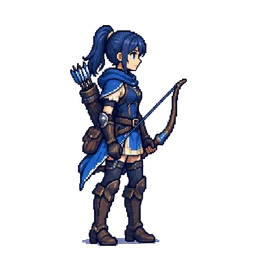
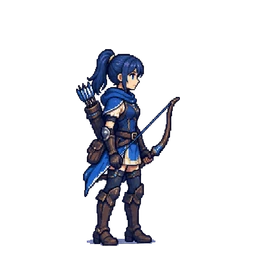
Sprites en las fichas de tienda y combate
- UnitArt muestra el sprite de la unidad (o su abreviatura si no tiene) en
  la tienda, el combate y la ficha que se arrastra; el rival va volteado.
- Recuadro de raza semitransparente detrás del sprite.
- Fichas más grandes: combate hasta 1280 px de ancho y fichas al 90 % del
  hueco; tienda hasta 800 px.
- Humanos a la altura del resto de humanoides; cría de lagarto, camaleón y
  escupidor agrandados (opciones --height, --min-height y --grow del script).
- Prueba: cada unidad comprable tiene su sprite.

Changed region(s): [[0.2812, 0.0938, 0.75, 0.9688]]

diff --git a/scripts/sprites.ts b/scripts/sprites.ts
@@ -1,12 +1,18 @@
 // Corta una hoja de sprites con fondo blanco en un archivo por personaje.
 //
-//   node scripts/sprites.ts <hoja.png> <carpeta-salida> <prefijo> [nombre...] [--height=N]
+//   node scripts/sprites.ts <hoja.png> <carpeta-salida> <prefijo> [nombre...] [opciones]
 //
 // Si se dan nombres (los id de las unidades, de izquierda a derecha), cada
 // archivo se llama <nombre>.webp; si no, <prefijo>_01.webp, <prefijo>_02.webp...
 //
 // Con --height=N el personaje más alto mide N píxeles en el lienzo en vez de
 // llenarlo. Sirve para que un sprite suelto encaje con los de su hoja.
+//
+// Con --min-height=N los personajes que medirían menos de N píxeles se agrandan
+// hasta N (por ejemplo una cría que, a escala real, no se distinguiría).
+//
+// Con --grow=nombre:factor ese personaje se escala por el factor (1.2 = un 20 %
+// más grande). Se puede repetir para varios.
 //
 // 1. Quita el fondo: relleno desde los bordes sobre los píxeles casi blancos
 //    (así no se borran los blancos de dentro, como dientes o calaveras) y
@@ -52,12 +58,27 @@ interface Blob {
 }
 
 const args = process.argv.slice(2)
-const heightArg = args.find((a) => a.startsWith('--height='))
-const targetHeight = heightArg ? Number(heightArg.slice('--height='.length)) : undefined
+const option = (name: string): number | undefined => {
+  const arg = args.find((a) => a.startsWith(`--${name}=`))
+  return arg === undefined ? undefined : Number(arg.slice(name.length + 3))
+}
+const targetHeight = option('height')
+const minHeight = option('min-height')
+const grow = new Map(
+  args
+    .filter((a) => a.startsWith('--grow='))
+    .map((a) => {
+      const [name = '', factor = ''] = a.slice('--grow='.length).split(':')
+      return [name, Number(factor)] as const
+    }),
+)
 const [input, outDir, prefix, ...names] = args.filter((a) => !a.startsWith('--'))
-if (!input || !outDir || !prefix || (targetHeight !== undefined && !(targetHeight > 0))) {
+const badOption =
+  [targetHeight, minHeight].some((n) => n !== undefined && !(n > 0)) ||
+  [...grow].some(([name, factor]) => !names.includes(name) || !(factor > 0))
+if (!input || !outDir || !prefix || badOption) {
   console.error(
-    'Uso: node scripts/sprites.ts <hoja.png> <carpeta-salida> <prefijo> [nombre...] [--height=N]',
+    'Uso: node scripts/sprites.ts <hoja.png> <carpeta-salida> <prefijo> [nombre...] [--height=N] [--min-height=N] [--grow=nombre:factor]',
   )
   process.exit(1)
 }
@@ -268,8 +289,12 @@ for (const [i, c] of characters.entries()) {
     const y = Math.floor(p / W) - c.box.y0
     rgba.copy(own, (y * w + x) * 4, p * 4, p * 4 + 4)
   }
-  const sw = Math.max(1, Math.round(w * scale))
-  const sh = Math.max(1, Math.round(h * scale))
+  // Los que quedarían por debajo de --min-height se agrandan hasta ella, y los
+  // de --grow por su factor; nunca más allá del lienzo.
+  const base = minHeight === undefined || h * scale >= minHeight ? scale : minHeight / h
+  const ownScale = Math.min(base * (grow.get(names[i] ?? '') ?? 1), inner / w, inner / h)
+  const sw = Math.max(1, Math.round(w * ownScale))
+  const sh = Math.max(1, Math.round(h * ownScale))
   const scaled = await sharp(own, { raw: { width: w, height: h, channels: 4 } })
     .resize(sw, sh, { kernel: 'lanczos3' })
     .png()

diff --git a/src/ui/arena.css b/src/ui/arena.css
@@ -2,7 +2,7 @@
 
 .pantalla-combate {
   width: 100%;
-  max-width: 960px;
+  max-width: 1280px;
   margin: 0 auto;
   padding-block: 16px 32px;
   padding-inline: max(16px, env(safe-area-inset-left, 0px)) max(16px, env(safe-area-inset-right, 0px));
@@ -133,21 +133,50 @@
 }
 
 .r-orc {
-  background: var(--orc);
+  --race: var(--orc);
 }
 .r-human {
-  background: var(--human);
+  --race: var(--human);
 }
 .r-lizard {
-  background: var(--lizard);
+  --race: var(--lizard);
 }
 .r-undead {
-  background: var(--undead);
+  --race: var(--undead);
+}
+.body {
+  background: var(--race);
 }
 
 .mono {
   font-size: clamp(12px, 2.6vw, 24px);
   text-shadow: 0 2px 0 rgb(0 0 0 / 30%);
+}
+
+/* Con sprite, el color de la raza queda de fondo, semitransparente. */
+.body.con-sprite {
+  background: color-mix(in srgb, var(--race) 42%, transparent);
+  border-color: color-mix(in srgb, var(--race) 70%, rgb(255 255 255 / 30%));
+  box-shadow: 0 5px 0 rgb(0 0 0 / 18%);
+}
+
+/* Más grande que la ficha: los humanoides llegan justo al borde de arriba y
+   las unidades grandes (liche, ogro, hidra) asoman por encima. */
+.sprite {
+  position: absolute;
+  left: 50%;
+  bottom: 4%;
+  width: 120%;
+  height: 120%;
+  object-fit: contain;
+  object-position: bottom;
+  transform: translateX(-50%);
+  pointer-events: none;
+  filter: drop-shadow(0 2px 1px rgb(0 0 0 / 45%));
+}
+
+.sprite.volteado {
+  transform: translateX(-50%) scaleX(-1);
 }
 
 .nivel {

diff --git a/src/ui/ShopScreen.tsx b/src/ui/ShopScreen.tsx
@@ -22,6 +22,8 @@ import {
   type ShopState,
 } from '../engine/shop'
 import { RACE_NAMES, UNITS, abilityText } from '../engine/units'
+import { UnitArt } from './UnitArt'
+import { artClass } from './sprites'
 import './arena.css'
 import './shop.css'
 
@@ -57,10 +59,6 @@ interface Ghost {
 const DRAG_THRESHOLD = 6
 /** Tiempo máximo entre dos pulsaciones para contar como doble clic. */
 const DOUBLE_TAP_MS = 350
-
-function short(name: string): string {
-  return name.slice(0, 2)
-}
 
 function samePick(a: Pick | null, b: Pick | null): boolean {
   return a !== null && b !== null && a.kind === b.kind && a.id === b.id
@@ -160,8 +158,8 @@ function ShopCard({ unit, unitId, owned, frozen, selected, dragging, ...handlers
       data-unit-id={unitId}
       {...handlers}
     >
-      <div className={`body r-${def.race}`}>
-        <span className="mono">{short(def.name)}</span>
+      <div className={`body r-${def.race}${artClass(def.id)}`}>
+        <UnitArt id={def.id} name={def.name} />
         <span className={`nivel nivel-${level}`}>Nv {level}</span>
         <span className="st atk">{stats.atk}</span>
         <span className="st hp">{stats.hp}</span>

diff --git a/src/ui/UnitCard.tsx b/src/ui/UnitCard.tsx
@@ -1,4 +1,6 @@
 import type { UnitSnapshot } from '../engine/combat'
+import { UnitArt } from './UnitArt'
+import { artClass } from './sprites'
 
 interface UnitCardProps {
   readonly unit: UnitSnapshot
@@ -6,17 +8,12 @@ interface UnitCardProps {
   readonly registerEl: (el: HTMLDivElement | null) => void
 }
 
-/** Abreviatura de dos letras que se ve dentro de la ficha. */
-function short(name: string): string {
-  return name.slice(0, 2)
-}
-
 export function UnitCard({ unit, description, registerEl }: UnitCardProps) {
   return (
     <div className="u" ref={registerEl} data-uid={unit.uid}>
       <div className="lunge">
-        <div className={`body r-${unit.race}`} title={description}>
-          <span className="mono">{short(unit.name)}</span>
+        <div className={`body r-${unit.race}${artClass(unit.defId)}`} title={description}>
+          <UnitArt id={unit.defId} name={unit.name} flip={unit.side === 'B'} />
           {unit.level > 1 && <span className={`nivel nivel-${unit.level}`}>Nv {unit.level}</span>}
           <span className="st atk">{unit.atk}</span>
           <span className="st hp">{unit.hp}</span>

diff --git a/src/ui/sprites.ts b/src/ui/sprites.ts
@@ -1,0 +1,23 @@
+// Sprites de las unidades: src/assets/units/<id>.webp, generados con scripts/sprites.ts.
+
+import type { UnitId } from '../engine/units'
+
+const files = import.meta.glob<string>('../assets/units/*.webp', {
+  eager: true,
+  query: '?url',
+  import: 'default',
+})
+
+const SPRITES: ReadonlyMap<string, string> = new Map(
+  Object.entries(files).map(([path, url]) => [path.slice(path.lastIndexOf('/') + 1, -'.webp'.length), url]),
+)
+
+/** URL del sprite de la unidad, o `undefined` si todavía no tiene. */
+export function spriteUrl(id: UnitId): string | undefined {
+  return SPRITES.get(id)
+}
+
+/** Clase extra de la ficha cuando lleva sprite (fondo de raza más apagado). */
+export function artClass(id: UnitId): string {
+  return spriteUrl(id) === undefined ? '' : ' con-sprite'
+}

diff --git a/src/ui/UnitArt.tsx b/src/ui/UnitArt.tsx
@@ -1,0 +1,23 @@
+import type { UnitId } from '../engine/units'
+import { spriteUrl } from './sprites'
+
+interface UnitArtProps {
+  readonly id: UnitId
+  readonly name: string
+  /** Mirar a la izquierda (equipo rival). Los sprites miran a la derecha. */
+  readonly flip?: boolean
+}
+
+/** Dibujo de la unidad dentro de su ficha: el sprite o, si no tiene, su abreviatura. */
+export function UnitArt({ id, name, flip = false }: UnitArtProps) {
+  const url = spriteUrl(id)
+  if (url === undefined) return <span className="mono">{name.slice(0, 2)}</span>
+  return (
+    <img
+      className={flip ? 'sprite volteado' : 'sprite'}
+      src={url}
+      alt=""
+      draggable={false}
+    />
+  )
+}

diff --git a/tests/sprites.test.ts b/tests/sprites.test.ts
@@ -1,0 +1,15 @@
+import { describe, expect, it } from 'vitest'
+import { PLAYABLE_UNITS } from '../src/engine/units'
+import { spriteUrl } from '../src/ui/sprites'
+
+describe('sprites de las unidades', () => {
+  it('cada unidad comprable tiene su sprite en src/assets/units', () => {
+    const missing = PLAYABLE_UNITS.filter((unit) => spriteUrl(unit.id) === undefined)
+    expect(missing.map((unit) => unit.id)).toEqual([])
+  })
+
+  it('las fichas invocadas sin sprite se quedan sin él (se ve la abreviatura)', () => {
+    expect(spriteUrl('bones')).toBeDefined()
+    expect(spriteUrl('hydraHead')).toBeUndefined()
+  })
+})

diff --git a/src/ui/shop.css b/src/ui/shop.css
@@ -2,7 +2,7 @@
 
 .pantalla-tienda {
   width: 100%;
-  max-width: 720px;
+  max-width: 800px;
   margin: 0 auto;
   padding-block: 16px 32px;
   padding-inline: max(16px, env(safe-area-inset-left, 0px)) max(16px, env(safe-area-inset-right, 0px));
@@ -142,7 +142,7 @@
 .fantasma {
   position: fixed;
   z-index: 50;
-  width: clamp(56px, 16vw, 96px);
+  width: clamp(60px, 17vw, 110px);
   transform: translate(-50%, -60%) scale(1.08);
   pointer-events: none;
   filter: drop-shadow(0 10px 12px rgb(0 0 0 / 45%));

diff --git a/src/anim/geometry.ts b/src/anim/geometry.ts
@@ -15,7 +15,7 @@ export const SLOTS = 11
 
 export function measureArena(width: number): Geometry {
   const slot = width / SLOTS
-  const size = slot * 0.82
+  const size = slot * 0.9
   const height = size * 1.9 + 40
   return { width, slot, size, height, y: height / 2 - size * 0.62 }
 }

diff --git a/docs/hitos.md b/docs/hitos.md
@@ -114,7 +114,7 @@ Estimación con Claude Code: 20‑32 h en total.
 - Revisar que las 24 unidades funcionan como dice `docs/diseno.md`.
 - Script de simulación: miles de combates entre bots para detectar unidades o razas demasiado fuertes o débiles.
 - Ajustar valores en `docs/diseno.md` y en `units.ts` a la vez.
-- Iconos o arte provisional coherente para cada unidad.
+- ~~Iconos o arte provisional coherente para cada unidad.~~ Hecho: sprites en `src/assets/units/` (generados con `pnpm sprites`); falta el de la Cabeza de hidra.
 
 **Terminado cuando**
 - Ninguna raza gana más del 60 % de las partidas simuladas entre bots.
